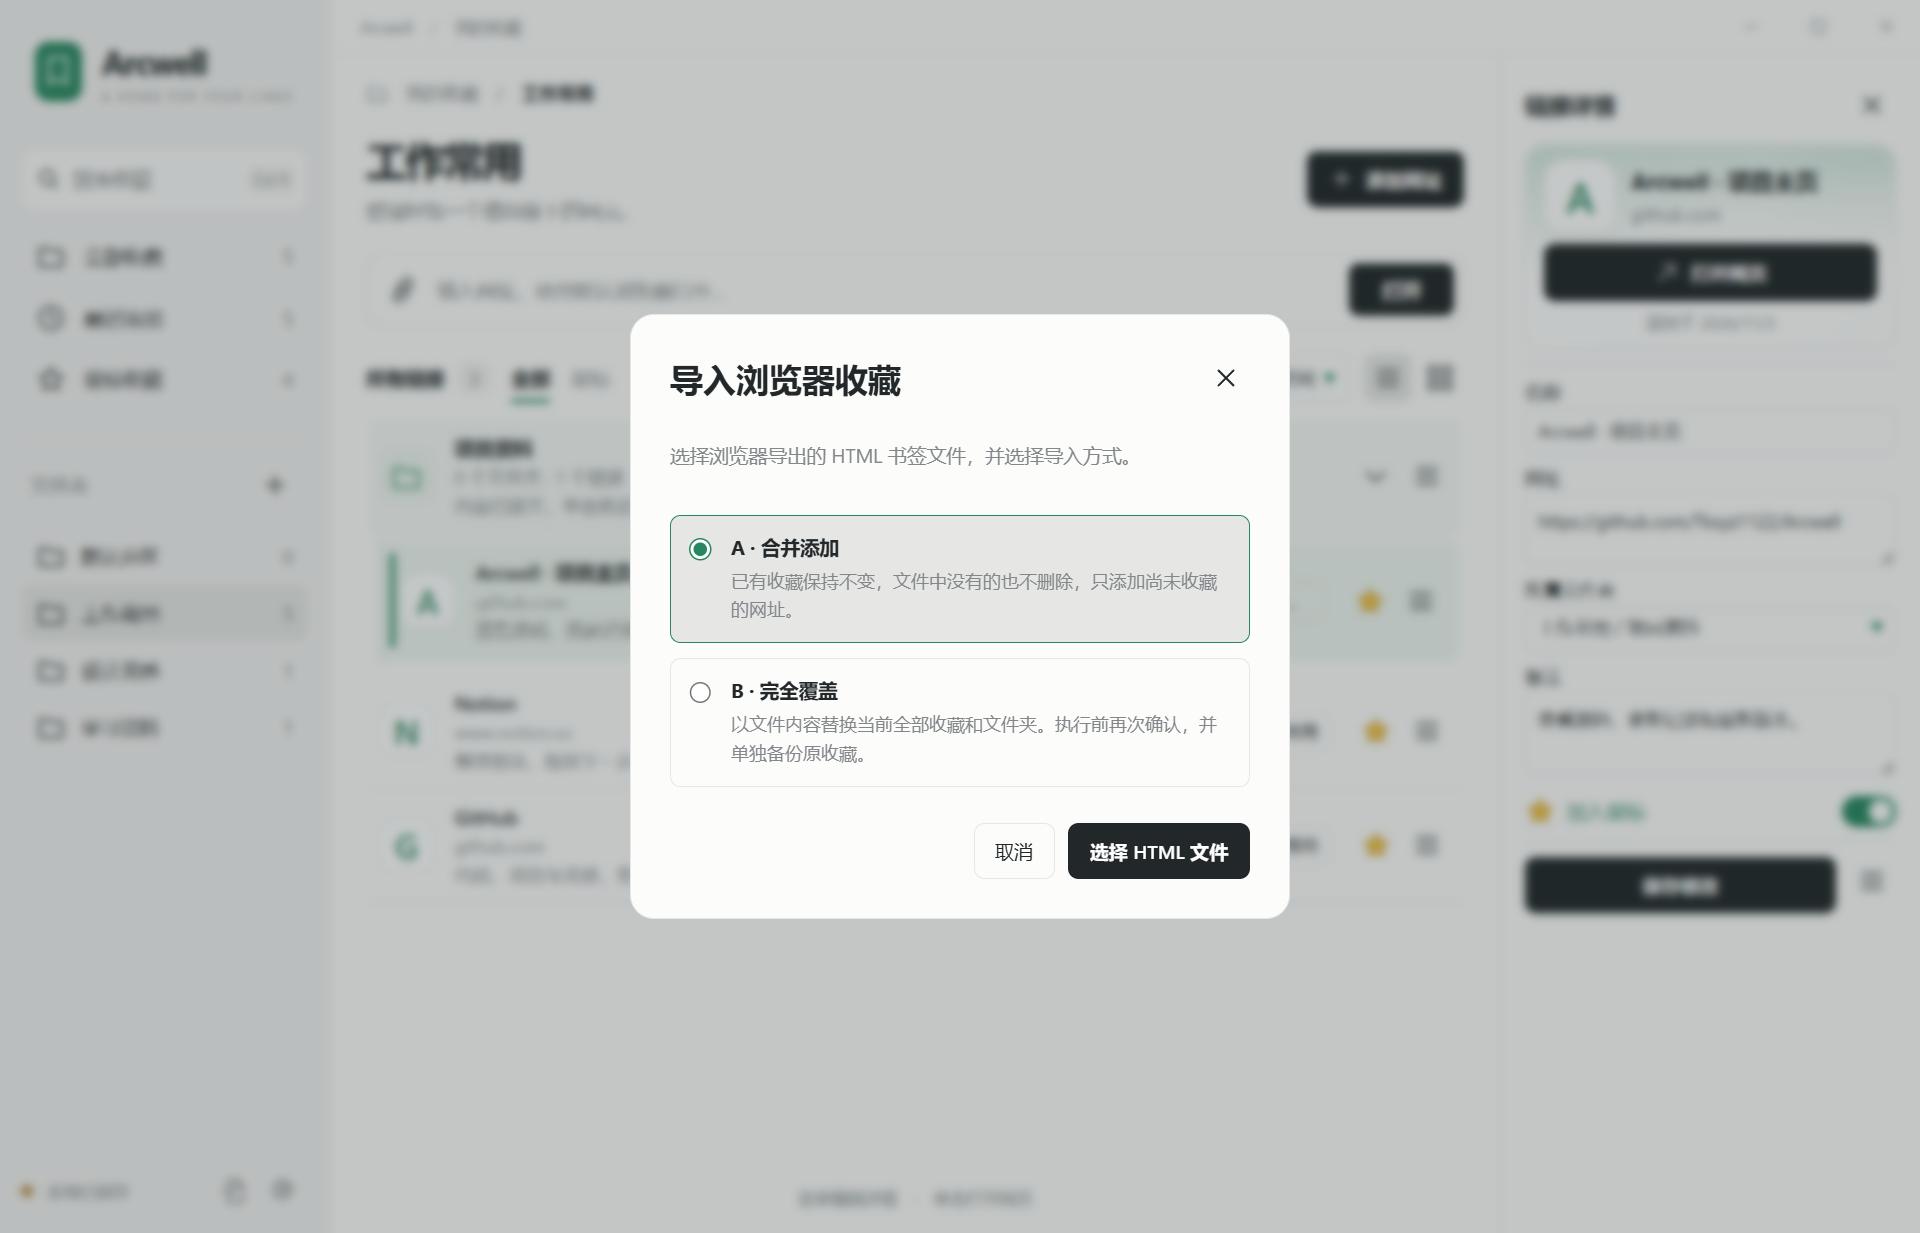
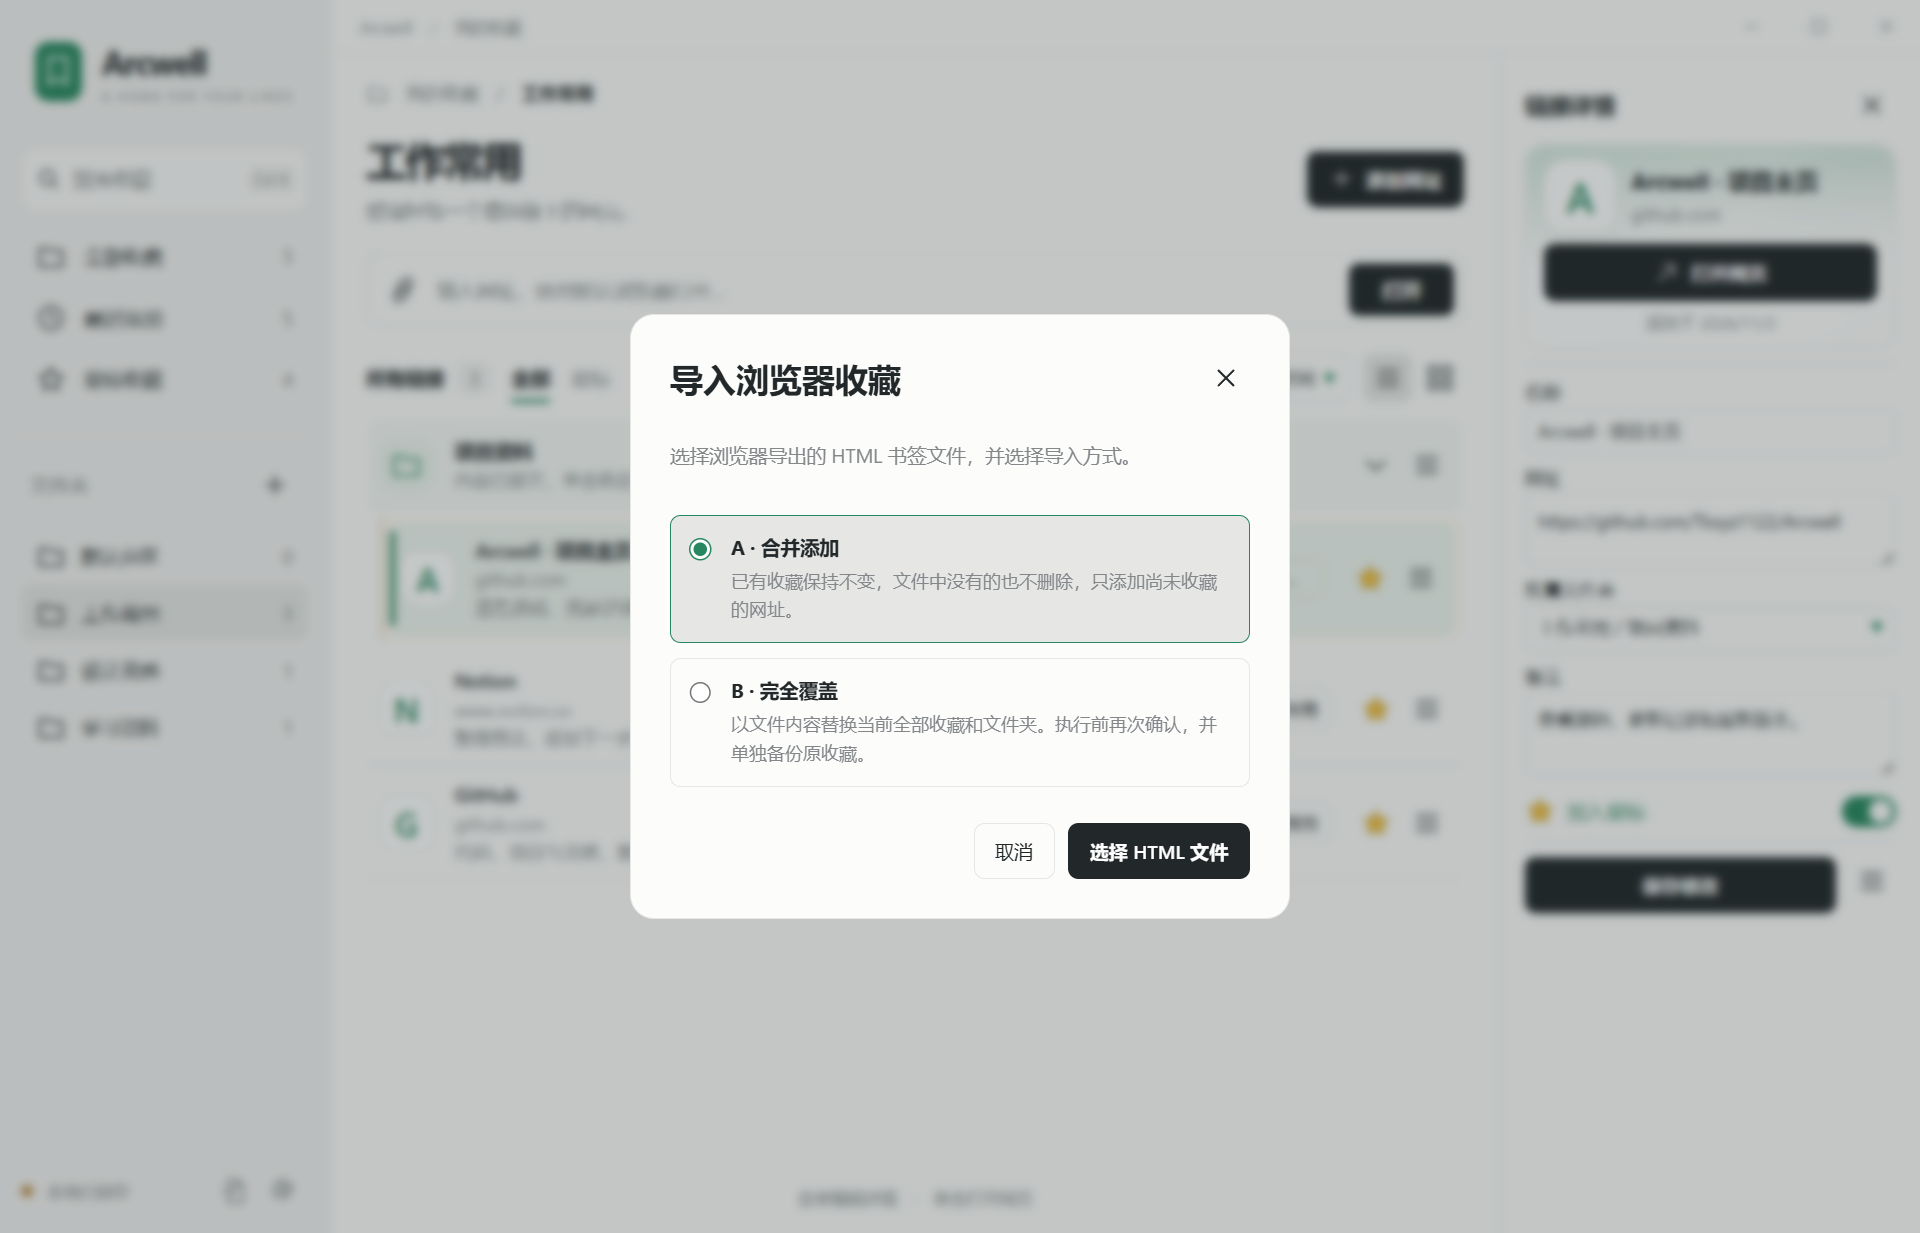
Compact folder cards and show counts in a subtle hover hint

diff --git a/src/ui/app.js b/src/ui/app.js
@@ -388,6 +388,56 @@ function bookmarkRow(bookmark) {
   row.append(actions);
   return row;
 }
+// One hint serves the whole collection; rerenders cannot leave per-card timers behind.
+const folderHint = (() => {
+  const hint = $('folder-hint');
+  const list = $('bookmark-list');
+  let card = null;
+  let timer;
+  let x = 0;
+  let y = 0;
+  const hide = () => {
+    clearTimeout(timer);
+    card = null;
+    hint.hidden = true;
+  };
+  const position = () => {
+    const { width, height } = hint.getBoundingClientRect();
+    const left = Math.max(8, Math.min(x + 12, innerWidth - width - 8));
+    const top = y + height + 22 > innerHeight ? y - height - 10 : y + 14;
+    hint.style.left = left + 'px';
+    hint.style.top = Math.max(8, Math.min(top, innerHeight - height - 8)) + 'px';
+  };
+  list.addEventListener('pointermove', (event) => {
+    if (event.pointerType !== 'mouse') return;
+    x = event.clientX;
+    y = event.clientY;
+    const candidate = event.target.closest('.folder-card');
+    if (!candidate || event.target.closest('.icon-button')) return hide();
+    if (card === candidate) {
+      if (!hint.hidden) position();
+      return;
+    }
+    hide();
+    card = candidate;
+    timer = setTimeout(() => {
+      if (!card?.isConnected || $('modal').open || !$('context-menu').hidden) return hide();
+      const name = card.querySelector('.folder-title > span');
+      hint.textContent =
+        (name.scrollWidth > name.clientWidth ? name.textContent + '\n' : '') +
+        card.dataset.folderSummary;
+      hint.hidden = false;
+      position();
+    }, 400);
+  });
+  list.addEventListener('pointerleave', hide);
+  list.addEventListener('scroll', hide, { passive: true });
+  document.addEventListener('pointerdown', hide, true);
+  document.addEventListener('keydown', hide, true);
+  window.addEventListener('blur', hide);
+  window.addEventListener('resize', hide);
+  return { hide };
+})();
 function folderGroup(entry, view, depth = 0) {
   const { folder, parts } = entry;
   const group = element('section', 'folder-group');
@@ -401,14 +451,13 @@ function folderGroup(entry, view, depth = 0) {
   folderIcon.innerHTML = icon('folder');
   const copy = element('div', 'bookmark-copy');
   const title = button(parts.at(-1), null, 'folder-title');
-  title.title = parts.join(' / ');
   const childCount = view.children(folder.id).folders.length;
   const count = view.counts.get(folder.id) || 0;
-  copy.append(
-    title,
-    element('span', 'bookmark-domain', childCount + ' 个文件夹 · ' + count + ' 个链接'),
-    element('p', 'bookmark-note', '单击展开，查看下一级内容'),
-  );
+  const summary = childCount + ' 个文件夹 · ' + count + ' 个链接';
+  heading.dataset.folderSummary = summary;
+  heading.setAttribute('aria-description', summary);
+  title.setAttribute('aria-description', summary);
+  copy.append(title, element('p', 'bookmark-note', '单击展开，查看下一级内容'));
   const actions = element('div', 'bookmark-actions');
   const toggle = iconButton('chevron', '展开 ' + parts.join(' / '));
   toggle.classList.add('folder-expand');
@@ -494,6 +543,7 @@ function appendCollection(container, items, view, depth = 0) {
     );
 }
 function renderList(view = currentCollection()) {
+  folderHint.hide();
   const list = $('bookmark-list');
   const scrollTop = list.scrollTop;
   list.classList.toggle('grid', state.view === 'grid');

diff --git a/src/ui/styles.css b/src/ui/styles.css
@@ -13,6 +13,10 @@
   --title: 27px;
   --section-title: 15px;
   --radius: 7px;
+  --folder-inset: #fff9f1;
+  --folder-inset-line: #ead9c3;
+  /* Two-line folder cards occupy 80% of the previous 76px list row. */
+  --folder-row-height: 61px;
   /* Inspector spacing scales with window height, reserving breathing room below. */
   --detail-gap: 10px;
   --profile-cover-height: 48px;
@@ -1241,6 +1245,12 @@ select option:focus-visible {
 .folder-group {
   min-width: 0;
 }
+.folder-card {
+  min-height: var(--folder-row-height);
+}
+.folder-card .bookmark-note {
+  margin-top: 3px;
+}
 .folder-icon {
   background: var(--selection);
 }
@@ -1281,10 +1291,30 @@ select option:focus-visible {
   min-width: 0;
   margin: 4px 0 8px var(--nested-inset);
   padding: 3px var(--nested-padding);
-  background: #27876008;
-  border-inline-start: var(--nested-border) solid #27876028;
+  background: var(--folder-inset);
+  border-inline-start: var(--nested-border) solid var(--folder-inset-line);
   border-radius: 0 var(--radius) var(--radius) 0;
   transform-origin: top center;
+}
+:where(.folder-contents) > .collection-row,
+:where(.folder-contents > .folder-group) > .folder-card {
+  background-color: var(--canvas);
+}
+.folder-hint {
+  position: fixed;
+  z-index: 80;
+  pointer-events: none;
+  max-width: min(240px, calc(100vw - 16px));
+  padding: 5px 8px;
+  border: 1px solid #e6dfd6;
+  border-radius: 6px;
+  background: #fffdf9;
+  color: #79736a;
+  font-size: var(--caption);
+  line-height: 1.45;
+  white-space: pre-line;
+  overflow-wrap: anywhere;
+  box-shadow: 0 3px 12px #49351b0c;
 }
 .folder-group.expanding > .folder-reveal > .folder-clip > .folder-contents {
   animation: folder-arrive 440ms cubic-bezier(0.2, 0.9, 0.3, 1.12);
@@ -1338,6 +1368,15 @@ select option:focus-visible {
 
 .folder-card .bookmark-actions {
   margin-left: auto;
+}
+.grid .folder-card {
+  padding: 12px;
+  gap: 8px;
+}
+.grid .folder-card .bookmark-note {
+  display: block;
+  white-space: nowrap;
+  min-height: 16px;
 }
 .grid .folder-group.is-expanded > .folder-card {
   flex-wrap: nowrap;

diff --git a/src/ui/index.html b/src/ui/index.html
@@ -142,6 +142,7 @@
     </dialog>
     <div id="context-menu" class="context-menu" hidden></div>
     <div id="toast" role="status" class="toast" hidden></div>
+    <div id="folder-hint" class="folder-hint" role="tooltip" hidden></div>
     <script src="../folders.js"></script>
     <script src="../collection-view.js"></script>
     <script src="app.js"></script>

diff --git a/README.md b/README.md
@@ -3,11 +3,11 @@
 <p align="center"><img src="assets/icon.svg" width="64" alt="Arcwell" /></p>
 <p align="center"><strong>A quiet home for your bookmarks.</strong><br />把常用网站、工作资料和灵感网页，整理成自己的桌面收藏库。</p>
 <p align="center">
-<a href="https://github.com/Tkxyz1122/Arcwell/releases/download/v0.6.0/Arcwell-0.6.0-Setup.exe"><img src="docs/images/download-setup.svg?v=compact" alt="下载安装版" /></a>
+<a href="https://github.com/Tkxyz1122/Arcwell/releases/download/v0.6.1/Arcwell-0.6.1-Setup.exe"><img src="docs/images/download-setup.svg?v=compact" alt="下载安装版" /></a>
 &nbsp;
-<a href="https://github.com/Tkxyz1122/Arcwell/releases/download/v0.6.0/Arcwell-0.6.0-Portable.zip"><img src="docs/images/download-portable.svg?v=compact" alt="下载便携版 ZIP" /></a>
+<a href="https://github.com/Tkxyz1122/Arcwell/releases/download/v0.6.1/Arcwell-0.6.1-Portable.zip"><img src="docs/images/download-portable.svg?v=compact" alt="下载便携版 ZIP" /></a>
 </p>
-<p align="center">Windows 11 · x64 · 当前版本 0.6.0</p>
+<p align="center">Windows 11 · x64 · 当前版本 0.6.1</p>
 
 ## Arcwell 是什么
 
@@ -38,7 +38,7 @@ Arcwell 是一款本地优先的 Windows 桌面网页收藏管理工具。你可
 
 ### 安装版（推荐）
 
-[下载安装程序 · Arcwell 0.6.0 Setup.exe](https://github.com/Tkxyz1122/Arcwell/releases/download/v0.6.0/Arcwell-0.6.0-Setup.exe)
+[下载安装程序 · Arcwell 0.6.1 Setup.exe](https://github.com/Tkxyz1122/Arcwell/releases/download/v0.6.1/Arcwell-0.6.1-Setup.exe)
 
 下载的是 **EXE 安装程序，无需手动解压**。双击后按向导选择位置并完成安装。程序会放入独立的 Arcwell 文件夹，避免文件散落在目标目录。
 
@@ -46,7 +46,7 @@ Arcwell 是一款本地优先的 Windows 桌面网页收藏管理工具。你可
 
 ### 便携版（可选）
 
-[下载便携版 · Arcwell 0.6.0 Portable.zip](https://github.com/Tkxyz1122/Arcwell/releases/download/v0.6.0/Arcwell-0.6.0-Portable.zip)
+[下载便携版 · Arcwell 0.6.1 Portable.zip](https://github.com/Tkxyz1122/Arcwell/releases/download/v0.6.1/Arcwell-0.6.1-Portable.zip)
 
 解压后打开其中的 **Arcwell** 文件夹，双击 **Arcwell.exe**。请保留完整文件夹，移动程序时一起移动。
 
@@ -60,7 +60,7 @@ Arcwell 是一款本地优先的 Windows 桌面网页收藏管理工具。你可
 4. **补充信息**：点击收藏右侧三横线菜单或右键菜单，选择“编辑详情”，修改名称、网址、所属文件夹和备注，完成后保存。
 5. **设置第二份备份**：点击左下角齿轮，在“自动 HTML 备份”中选择自定义备份目录。
 
-左栏只显示最外层目录和默认分区。中央列表中，当前层级的文件夹始终排在链接前面；展开后先显示它的子文件夹，再显示直属链接。文件夹与链接共用卡片布局，展开区用浅绿色背景、层级边线和轻微缩进区分归属。列表和网格视图均支持嵌套展开，默认浏览时不会把子目录的链接重复铺到外层。
+左栏只显示最外层目录和默认分区。中央列表中，当前层级的文件夹始终排在链接前面；展开后先显示它的子文件夹，再显示直属链接。文件夹与链接共用卡片布局，文件夹卡片高度较上一版缩小约 20%，文件夹 / 链接数量改为鼠标停留后的轻量提示；展开区用偏白的浅杏色背景、层级边线和轻微缩进区分归属。列表和网格视图均支持嵌套展开，默认浏览时不会把子目录的链接重复铺到外层。
 
 单击文件夹卡片、标题或展开箭头均可展开 / 收起；键盘可用 Enter、空格及卡片上的左右方向键操作。展开带柔和回弹，系统启用“减少动态效果”时会自动减少动画。文件夹菜单支持在当前目录添加网址、新建子目录、重命名与移除。
 
@@ -68,7 +68,7 @@ Arcwell 是一款本地优先的 Windows 桌面网页收藏管理工具。你可
 
 排序栏可选择“添加时间”或“名称排序”，点击旁边的箭头切换升序 / 降序；每一层的文件夹和链接分别排序，文件夹保持置顶；两种排序分别记住本次使用的方向。旧版未记录文件夹时间的目录，按原有创建 / 导入顺序稳定排序。“最近添加”始终限定最新 30 条。详情栏以网站图标、名称与柔和绿色渐变资料卡展示网站信息，编辑表单采用标签在上、控件在下的统一布局；网址框可自动折行，便于查看和修改长链接，底部保留适度留白。
 
-顶部网址输入框用于**直接打开输入的网址**，不会自动添加收藏。需要保存到收藏库时，请使用“添加网址”。长文件夹名称被省略后，鼠标悬停可查看完整路径。
+顶部网址输入框用于**直接打开输入的网址**，不会自动添加收藏。需要保存到收藏库时，请使用“添加网址”。长文件夹名称被省略后，鼠标悬停可查看完整名称。
 
 移除文件夹及其子文件夹时，相关收藏会保留并归入默认分区。
 
@@ -134,7 +134,7 @@ Arcwell 在保存收藏修改后，同步更新两份固定名称的 **网址备
 
 首次从旧版升级，或无法使用应用内更新时，可手动下载更新程序：
 
-[下载 Arcwell 0.6.0 更新程序 · Update.exe](https://github.com/Tkxyz1122/Arcwell/releases/download/v0.6.0/Arcwell-0.6.0-Update.exe)
+[下载 Arcwell 0.6.1 更新程序 · Update.exe](https://github.com/Tkxyz1122/Arcwell/releases/download/v0.6.1/Arcwell-0.6.1-Update.exe)
 
 先保存正在编辑的内容，再运行更新程序。程序会自动使用原安装位置，后台更新后重新打开 Arcwell 并显示结果，**无需先卸载旧版或重新选择目录**。便携版可将更新程序放到 Arcwell.exe 所在文件夹后运行。找不到原程序时会停止，不向新的默认位置安装。后续可继续通过应用内“检查更新”更新。
 
@@ -182,7 +182,7 @@ npm run build
 
 技术栈为 Electron、原生 HTML / CSS / JavaScript、htmlparser2 与 electron-builder。渲染器使用沙箱，文件保存、导入、备份、默认浏览器调用与更新下载由主进程负责。代码按界面、业务规则、存储、备份、图标和更新模块拆分。
 
-`npm run build` 生成安装程序、更新程序及便携 ZIP，产物位于 `release/0.6.0`。更详细的开发结构、数据恢复和发布流程见：
+`npm run build` 生成安装程序、更新程序及便携 ZIP，产物位于 `release/0.6.1`。更详细的开发结构、数据恢复和发布流程见：
 
 - [开发与数据说明](docs/DEVELOPMENT.md)
 - [更新与发布](docs/UPDATING.md)

diff --git a/docs/release-notes.md b/docs/release-notes.md
@@ -1,5 +1,5 @@
 <p>
-<a href="https://github.com/Tkxyz1122/Arcwell/releases/download/v0.6.0/Arcwell-0.6.0-Setup.exe">下载安装版</a> · <a href="https://github.com/Tkxyz1122/Arcwell/releases/download/v0.6.0/Arcwell-0.6.0-Portable.zip">下载便携版 ZIP</a>
+<a href="https://github.com/Tkxyz1122/Arcwell/releases/download/v0.6.1/Arcwell-0.6.1-Setup.exe">下载安装版</a> · <a href="https://github.com/Tkxyz1122/Arcwell/releases/download/v0.6.1/Arcwell-0.6.1-Portable.zip">下载便携版 ZIP</a>
 </p>
 
 **安装版**：运行安装程序，按向导完成安装。
@@ -8,10 +8,12 @@
 
 **检查更新**：应用左下角齿轮 → 应用更新 → 检查更新，在应用内下载并安装后续版本。
 
-**手动更新（备用）**：[下载更新程序](https://github.com/Tkxyz1122/Arcwell/releases/download/v0.6.0/Arcwell-0.6.0-Update.exe)，自动使用原安装目录，后台更新，无需卸载。
+**手动更新（备用）**：[下载更新程序](https://github.com/Tkxyz1122/Arcwell/releases/download/v0.6.1/Arcwell-0.6.1-Update.exe)，自动使用原安装目录，后台更新，无需卸载。
+
+文件夹卡片高度缩小至约80%，数量信息改为鼠标停留时显示的小型提示，减少列表占用。展开区域使用偏白的浅杏色背景，内部卡片与背景清晰区分。
 
 左侧仅显示最外层文件夹，子文件夹移入中央收藏列表，和网页采用一致的卡片布局。同层文件夹始终置顶，支持名称 / 添加时间的升序、降序排列。
 
-单击文件夹逐层展开内容，展开区域使用浅绿色底色、层级边线与柔和回弹动画区分归属，系统减少动态效果设置也会生效。列表和网格均可使用；文件夹菜单可直接添加网址或子目录。
+单击文件夹逐层展开内容，展开区域使用偏白的浅杏色底色、层级边线与柔和回弹动画区分归属，系统减少动态效果设置也会生效。列表和网格均可使用；文件夹菜单可直接添加网址或子目录。
 
 搜索、最近添加和星标筛选直接显示匹配链接。已有收藏、目录 ID、备注、星标与 HTML 备份保持兼容；更新仍在原目录后台完成，无需卸载。

diff --git a/docs/DEVELOPMENT.md b/docs/DEVELOPMENT.md
@@ -36,7 +36,7 @@ npm run format:check
 npm run build
 ```
 
-产物位于 `release/0.6.0`：Setup.exe 是安装向导，Portable.zip 是可选的便携版；Update.exe 供应用内更新及手动更新备用。便携运行需保留完整 Arcwell 文件夹。依赖由 npm ci 根据锁文件恢复。
+产物位于 `release/0.6.1`：Setup.exe 是安装向导，Portable.zip 是可选的便携版；Update.exe 供应用内更新及手动更新备用。便携运行需保留完整 Arcwell 文件夹。依赖由 npm ci 根据锁文件恢复。
 
 界面测试：`npm run test:hierarchy`（根目录导航、列表内逐层展开、动画与减弱动画、键盘和层级归属）、`npm run test:sorting`（双向排序、最新30条范围、资料卡与留白）、`npm run test:ui`、`npm run test:import`、`node scripts/release-ui-test.cjs`，均使用隔离数据。原生更新器测试需指定只读旧版基线，见 [更新与发布](UPDATING.md)。
 

diff --git a/CHANGELOG.md b/CHANGELOG.md
@@ -1,5 +1,11 @@
 # 更新记录
 
+## 0.6.1 · 2026-11-03
+
+- 文件夹卡片高度缩小至约80%，数量信息移到鼠标旁的小型悬浮提示。
+- 提示支持窗口边缘避让，离开、滚动及操作时收起，键盘仍可读取数量说明。
+- 展开区域改为偏白的浅杏色，内部卡片使用近白底色，保留绿色悬停反馈与回弹动画。
+
 ## 0.6.0 · 2026-11-03
 
 - 左侧仅保留最外层文件夹，子目录移入收藏列表，逐层单击展开。
